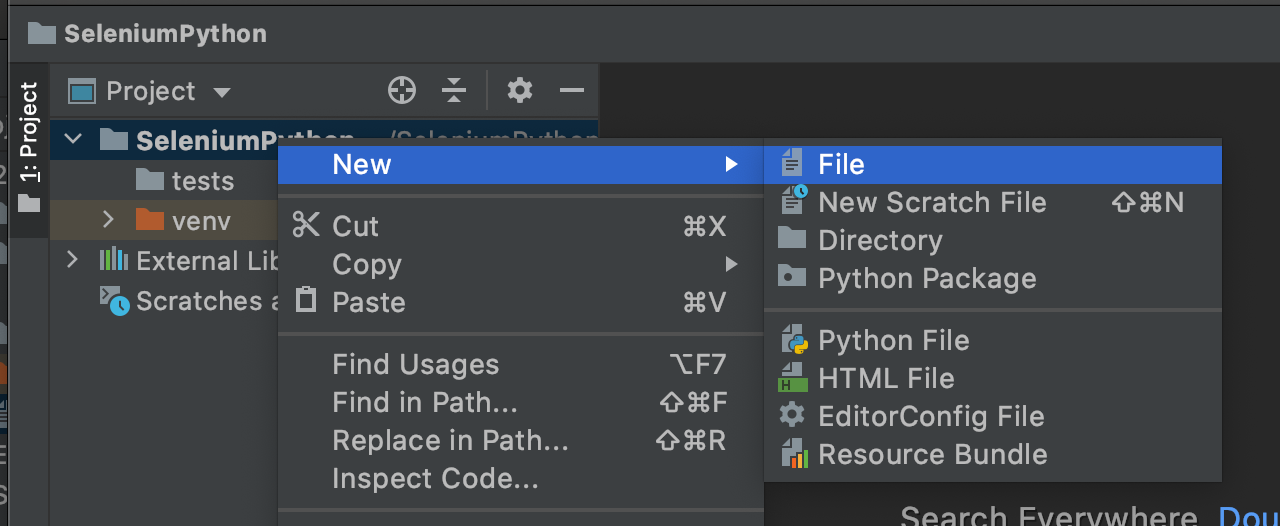
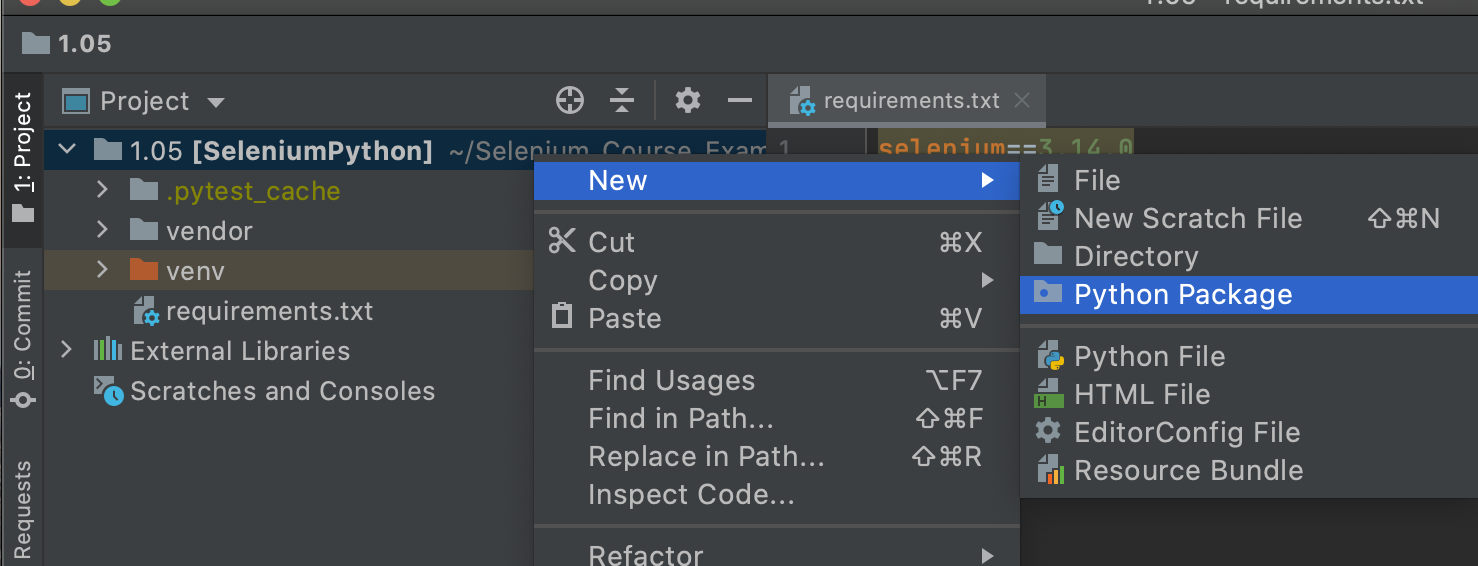
resolved issues with running pytest

diff --git a/codelabs/Module2_SeleniumPython.md b/codelabs/Module2_SeleniumPython.md
@@ -45,6 +45,14 @@ If you are familiar with using GitHub to write your code, you can also fork/ bra
 
 **[Module 1 Project Folder](http://example.com)**
 
+
+#### NOTE
+Negative
+: If you are cloning ot downloading the GitHub repo, make sure you do the following:
+  * Ensure there is no `.pytest_cache` file in the project (delete it!)
+  * You have Pip3 and Pytest installed
+  * You run `pip3 install -r requirements.txt` to install all the other dependencies.
+
 <!-- ------------------------ -->
 ## 2.02 Writing Good Acceptance Tests
 Duration: 0:10:00
@@ -261,7 +269,7 @@ Let's put these elements to use in our first test.
 
 ### Setup Your Project File
 
-First we will need to create a new project directory called `SeleniumPython` (your main project directory), and inside create a folder named `test` inside that project directory. This is a default folder that Mocha will know to look for.
+First we will need to create a new project directory called `SeleniumPython` (your main project directory), and inside create a new Python package named `tests` inside that project directory. This is a default folder that Mocha will know to look for.
 
 
 You can see all of the files here. It is recommended that you follow the steps in this module to correctly configure your test in PyCharm if you don't have experience setting up this type of project before.
@@ -281,13 +289,13 @@ Virtualenv will create a 'sandbox' virtual environment for your project with onl
 
 Right click in the top-level folder and create a **New > Python Package**. name the director **tests**.
 
+<img src="assets/2.05T.png" alt="Create tests package" width="450"/>
+
+Next, right click on the **tests** folder and create a **New > Python File**. name the file **login_test**. There should be a blank file automatically created called `__init__.py` since it is a Python package.
+
 <img src="assets/2.05S.png" alt="Create Login test" width="450"/>
 
-Next, right click on the **tests** folder and create a **New > Python File**. name the file **login_test**. There should be a blank file automatically created called `_init_.py` since it is a Python package.
-
-<img src="assets/2.05S.png" alt="Create Login test" width="450"/>
-
-Last, right click in the top-level folder and create a **New > File**. Name is **requirements.txt**. This file will contain the instructions for the dependencies that will be installed in your virtual environment.
+Last, right click in the top-level folder and create a **New > File**. Name it **requirements.txt**. This file will contain the instructions for the dependencies that will be installed in your virtual environment.
 
 <img src="assets/2.05T.png" alt="Create requirements.txt" width="450"/>
 
@@ -307,6 +315,10 @@ pytest-randomly
 After you add those files, PyCharm will prompt you to install the plugins and requirements - click on the links to install the dependencies listed.
 
 <img src="assets/2.05U.png" alt="install dependencies" width="750"/>
+
+#### NOTE
+Negative
+: Another option is to run `pip3 install -r requirements` to ensure all the requirements have been installed.
 
 Next, you will set up the base for your first test. In `login_test.py` copy and paste the following (you will have to install requirements in this file as well):
 
@@ -355,7 +367,7 @@ Before you can run this test code, you will need to install the Chromedriver so 
 
 Start by creating a new directory in the top level folder by right clicking on it and choosing **New > Directory**.  Name that directory **vendor**:
 
-<img src="assets/2.05V.png" alt="install dependencies" width="350"/>
+<img src="assets/2.05V.png" alt="Vendor directory" width="350"/>
 
 In order for your test to run on a browser on your local machine, you need to install the driver for the browser, and update your code. A similar set of steps can be followed for any browser.
 

diff --git a/codelabs/Drafts/Module3_SeleniumPython.md b/codelabs/Drafts/Module3_SeleniumPython.md
@@ -41,6 +41,14 @@ If you skipped Modules 1 & 2, make sure you have a project folder set up and hav
 **[Final Module 2 Project Code](https://github.com/walkerlj0/Selenium_Course_Example_Code/tree/master/python/Mod2/2.07_solutions)**
 
 
+#### NOTE
+Negative
+: If you are cloning ot downloading the GitHub repo, make sure you do the following:
+  * Ensure there is no `.pytest_cache` file in the project (delete it!)
+  * You have [Python 3](https://help.dreamhost.com/hc/en-us/articles/115000699011-Using-pip3-to-install-Python3-modules) (including Pip3) and Pytest installed
+  * You run `pip3 install -r requirements.txt` to install all the other dependencies.
+
+
 ### Use GitHub Repository (Optional)
 
 If you are familiar with using GitHub to write your code, you can also clone or download the repository above to use as the base to write your test from.
@@ -201,7 +209,13 @@ Go to the terminal at the bottom of the PyCharm IDE and run the command `pytest`
 
 #### Note
 Negative
-: If you have issues getting your test to run, go to the **PyCharm** menu then > **Preferences**. (On Windows it's **File > Settings**). Find the auto import settings, and make sure that your imports are set up to use the **from \<module\>** syntax:
+: If you have issues getting your test to run, check the following:
+* Make sure you have Python 3.7+ with pip 3 installed
+* You dependencies are correctly installed from requirements.txt `pip3 install -r requirements.txt`
+* There is no `.pytest_cache` file installed from a repo.
+* Both the **tests** and **page** Packages have an `\_\_init\_\_.py` file with double underscores before and after.
+<img src="assets/3.03N.png" alt="Login Failure Markup" width="600"/>
+* Go to the **PyCharm** menu then > **Preferences**. (On Windows it's **File > Settings**). Find the auto import settings, and make sure that your imports are set up to use the **from \<module\>** syntax:
 <img src="assets/3.03M.png" alt="Login Failure Markup" width="600"/>
 
 

diff --git a/codelabs/Module3_SeleniumJS.md b/codelabs/Module3_SeleniumJS.md
@@ -47,6 +47,7 @@ If you skipped Modules 1 & 2, make sure you have a project folder set up and hav
 
 If you are familiar with using GitHub to write your code, you can also fork/ branch this repository for the first set of code.
 
+
 <!--- ------------------------ -->
 ## 3.02 The POM and Imperative vs. Declarative Tests
 Duration: 0:08:00
